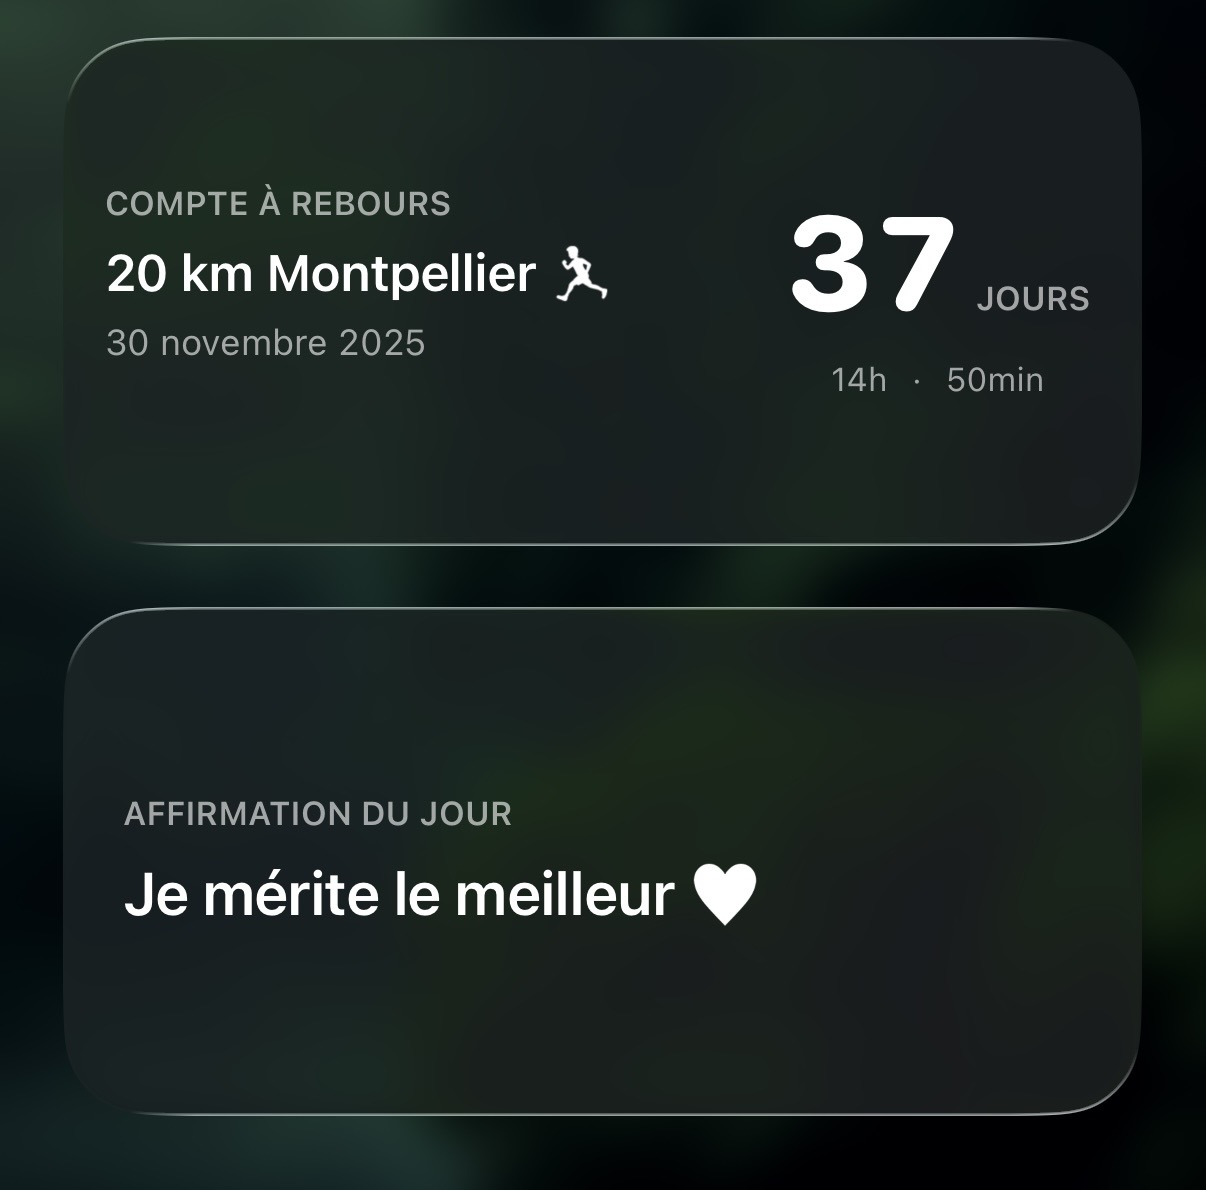
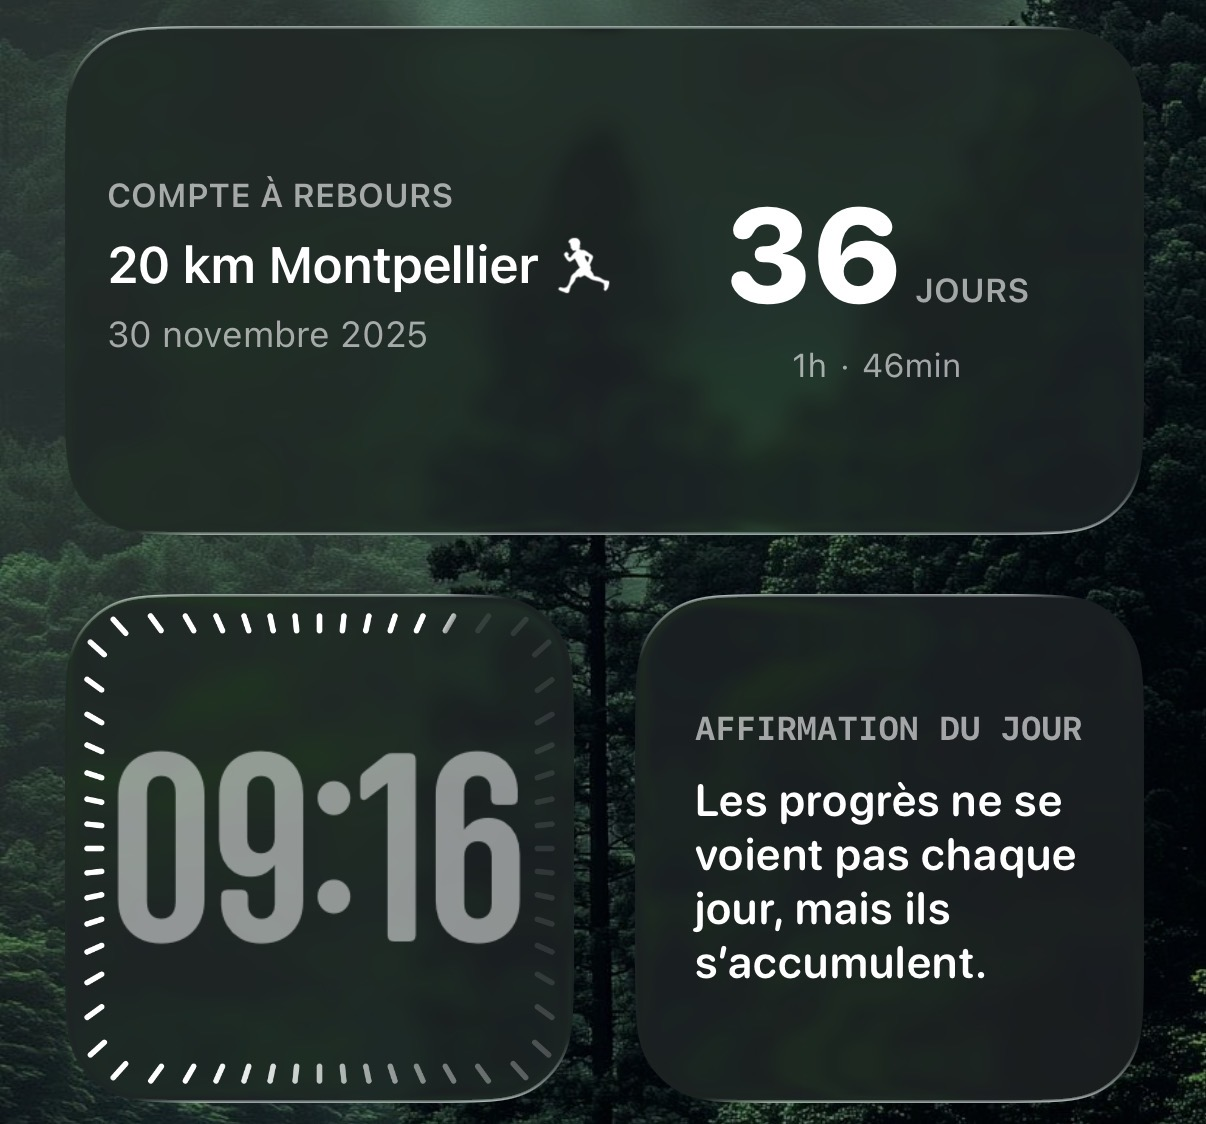
change desing and update images

diff --git a/PositivWidgets/EventCountdownWidget.swift b/PositivWidgets/EventCountdownWidget.swift
@@ -94,16 +94,16 @@ struct LockScreenCountdownView: View {
                 .foregroundStyle(.secondary)
 
             // Ligne jours + heures/min
-            HStack(alignment: .firstTextBaseline, spacing: 4) {
+            HStack(alignment: .firstTextBaseline, spacing: 2) {
                 HStack(spacing: 3) {
                     Text("\(c.days)")
                         .font(.system(size: 20, weight: .heavy, design: .rounded))
                         .monospacedDigit()
                     Text("j").font(.caption2).bold()
+                    Text("")
                 }
 
-                Spacer(minLength: 6)
-
+            
                 HStack(spacing: 6) {
                     Text("\(c.hours)h")
                     Text("·")

diff --git a/PositivWidgets/AffirmationsWidget.swift b/PositivWidgets/AffirmationsWidget.swift
@@ -61,13 +61,11 @@ struct AffirmationCardView: View {
     var body: some View {
         VStack(alignment: .leading, spacing: 8) {
             Text("AFFIRMATION DU JOUR")
-                .font(.caption2)
-                .bold()
+                .font(.system(size: 11, weight: .bold, design: .monospaced))
                 .foregroundStyle(.secondary)
 
             Text(entry.text)
-                .font(.title3)
-                .fontWeight(.semibold)
+                .font(.system(size: 15, weight: .semibold, design: .rounded))
                 .foregroundStyle(.primary)
                 .minimumScaleFactor(0.7)
                 .multilineTextAlignment(.leading)

diff --git a/README.md b/README.md
@@ -14,7 +14,7 @@ L'application affiche automatiquement une affirmation chaque jour sur votre widg
 
 📸 Exemples :
 
-![Affirmation Edit](https://github.com/lucassimonin/positiv/blob/main/images/1.jpg "Affirmation Edit")
+![Affirmation Edit](https://github.com/lucassimonin/positiv/blob/main/images/1.png "Affirmation Edit")
 
 
 
@@ -28,7 +28,7 @@ Le widget affiche automatiquement le nombre de jours restants ainsi que les heur
 
 📸 Exemples :
 
-![Countdown Edit](https://github.com/lucassimonin/positiv/blob/main/images/2.jpg "Countdown Edit")
+![Countdown Edit](https://github.com/lucassimonin/positiv/blob/main/images/2.png "Countdown Edit")
 
 
 🔒 Widgets iOS 18+
